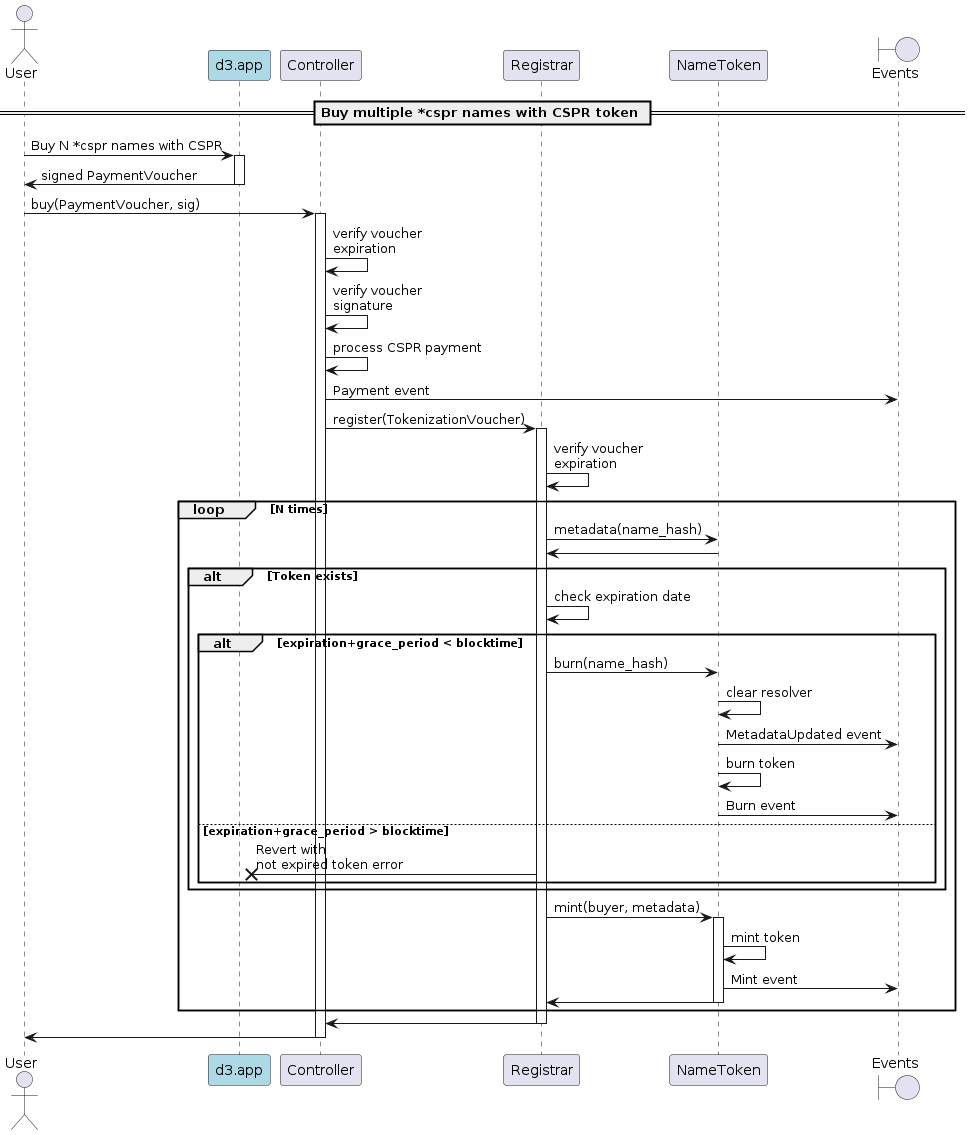
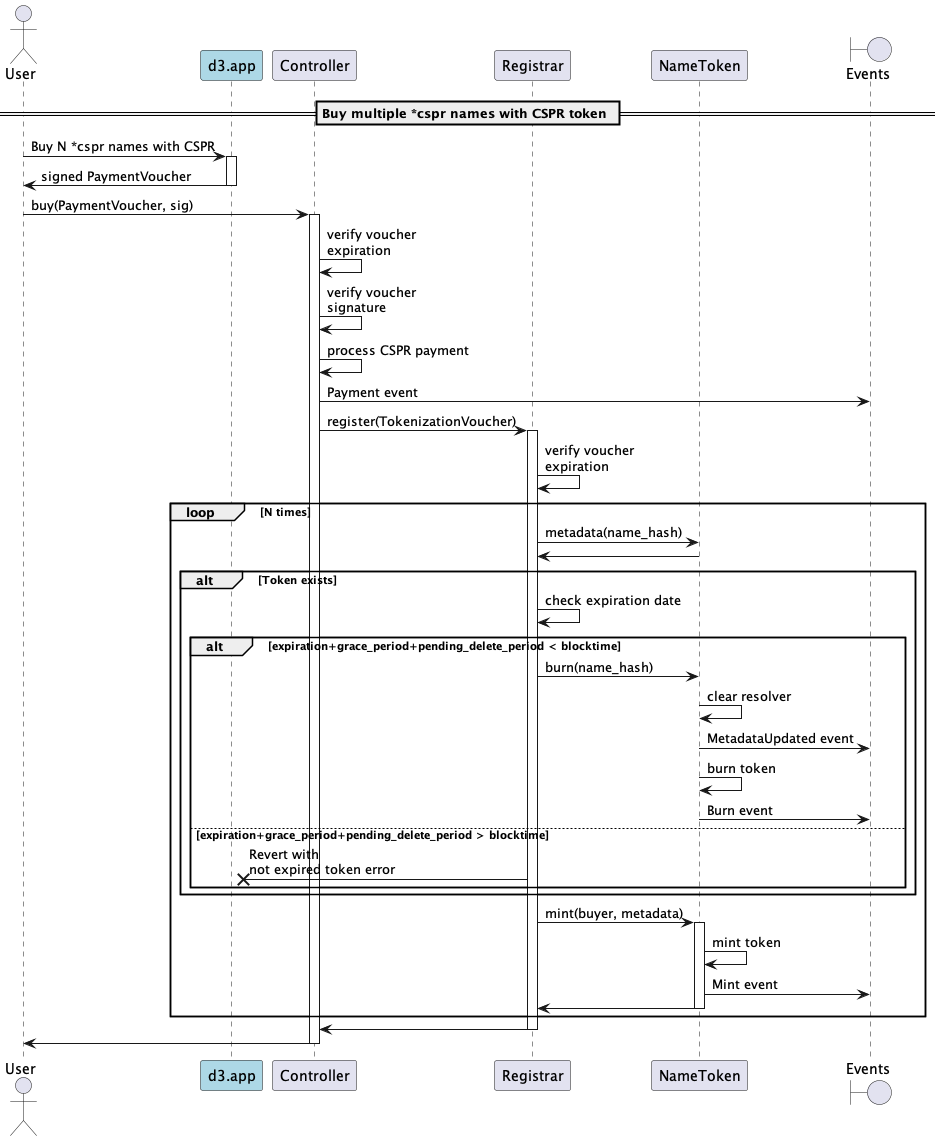
Changes to buy cspr name: - removed single domain purchase flows (keep multiple domain purchase flow) - added pending_delete_period check previous to burn action

diff --git a/docs/sequence-diagrams/Buy a cspr name.md b/docs/sequence-diagrams/Buy a cspr name.md
@@ -2,22 +2,12 @@
 
 ## Buy with fiat currency
 
-> As a user, I must be able to buy a *cspr name with a fiat currency on D3 web application
- 
-![](puml/offchain-purchase.png)
-[🔗](puml/offchain-purchase.puml)
-
 > As a user, I must be able to buy multiple *cspr name with a fiat currency in one transaction on D3 web application
 
 ![](puml/offchain-multiple-purchase.png)
 [🔗](puml/offchain-multiple-purchase.puml)
 
 ## Buy with CSPR token
-
-> As a user, I must be able to buy a *cspr name with CSPR token on D3 web application 
-
-![](puml/onchain-purchase.png)
-[🔗](puml/onchain-purchase.puml)
 
 > As a user, I must be able to buy multiple *cspr names with CSPR token in one transaction on D3 web application
 
